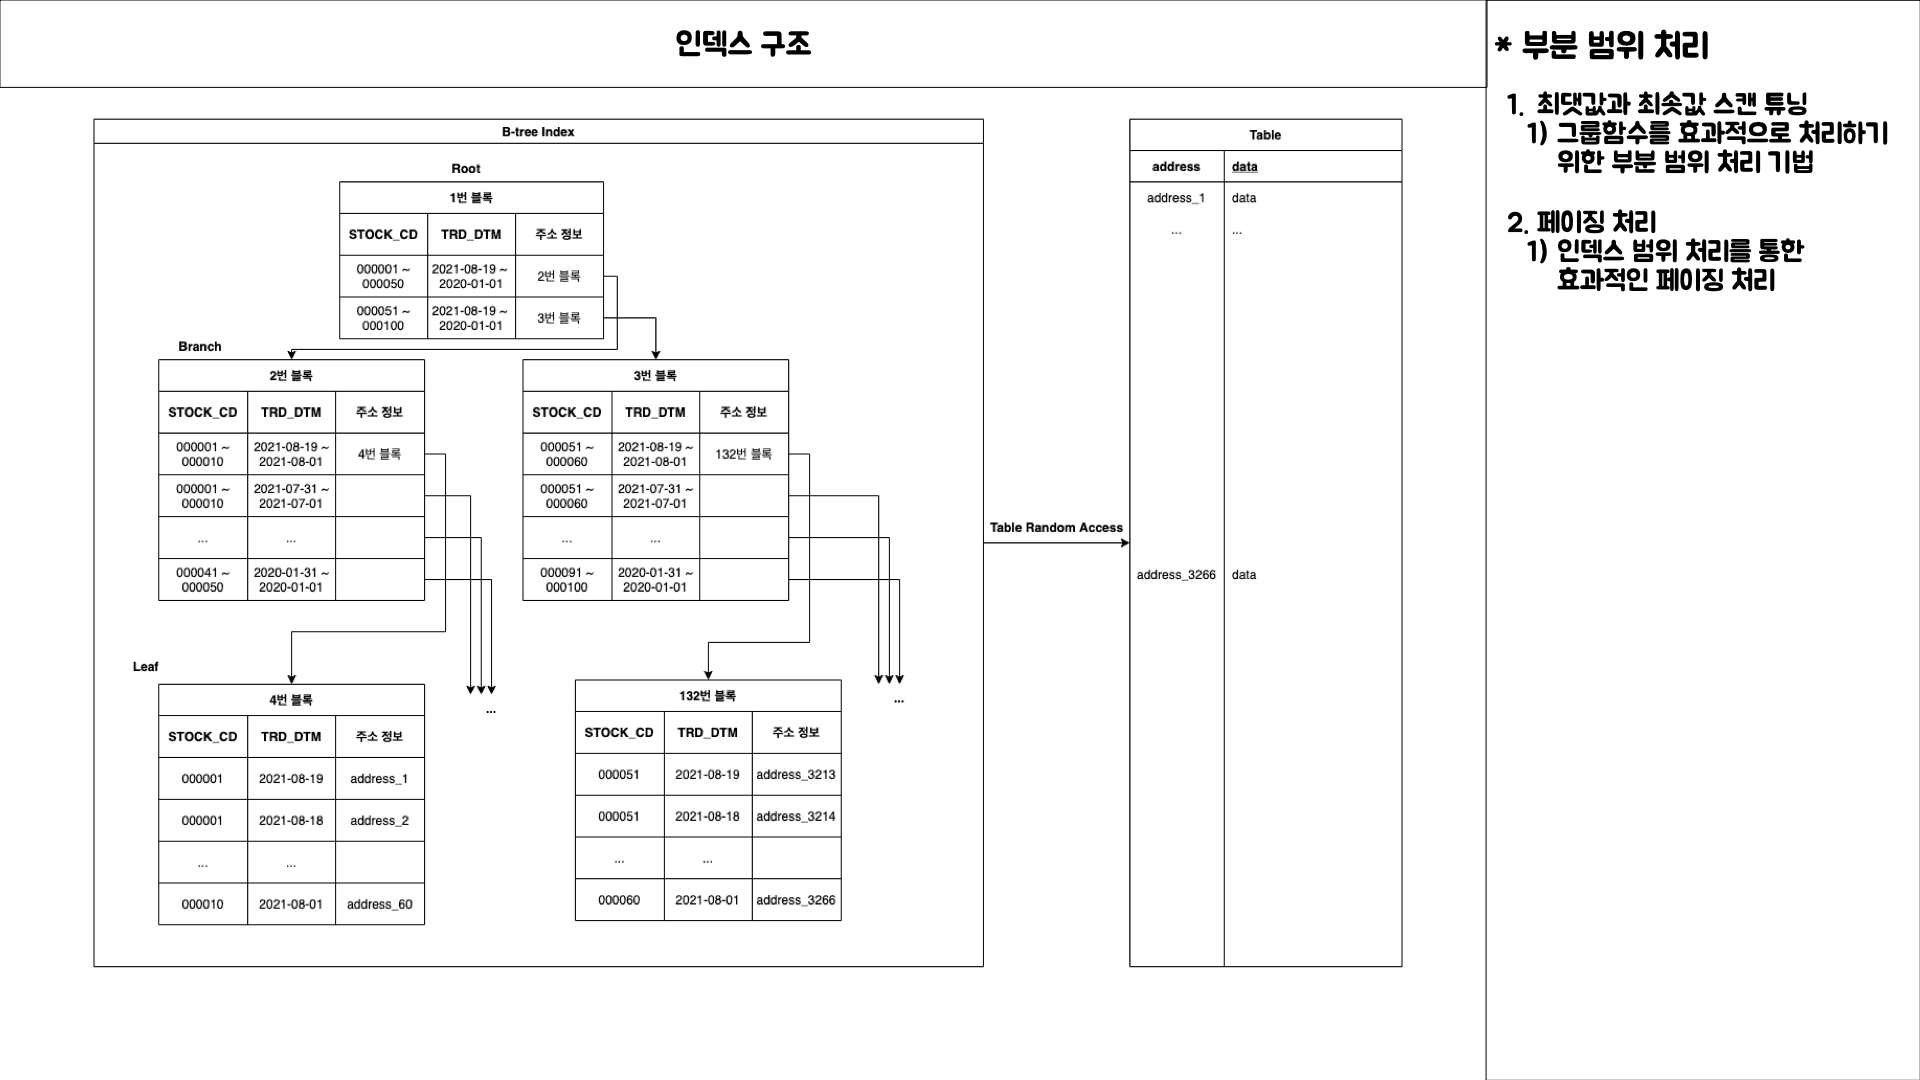
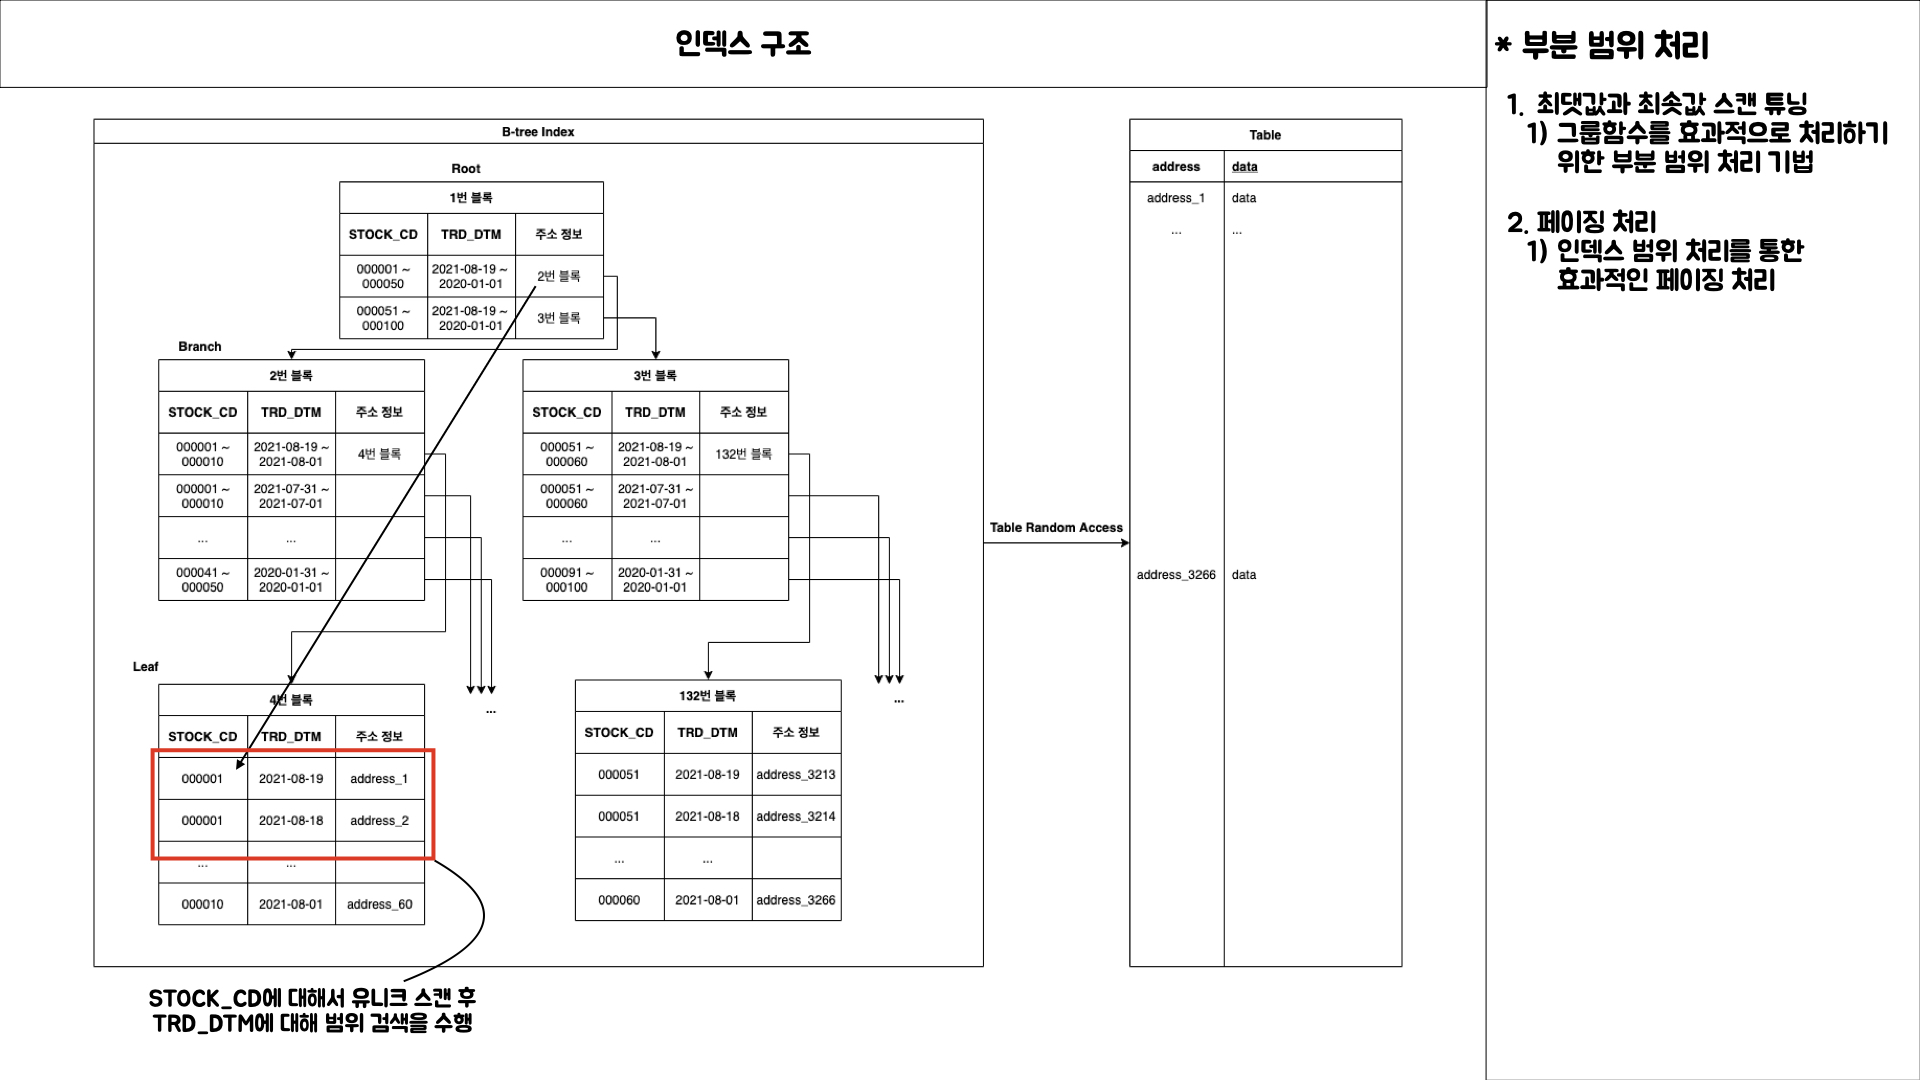
feat: 인덱스 스캔 추가 설명

Changed region(s): [[0.0625, 0.9167, 0.25, 0.9778], [0.0938, 0.6722, 0.2188, 0.7028], [0.0625, 0.7639, 0.0938, 0.7944]]

diff --git a/database/easy_db/contents/2021-08-21-db-partial.md b/database/easy_db/contents/2021-08-21-db-partial.md
@@ -123,6 +123,13 @@ WHERE ROWNUM <= 3;
 
 ![인덱스 생성과 튜닝 후 쿼리](../../images/oracle/partial_range_process/partial_range_process.009.jpeg)
 
+
+![인덱스를 통한 부분 범위 처리](../../images/oracle/partial_range_process/partial_range_process.012.jpeg)
+
+- **"인덱스를 통한 효율적인 부분 범위 처리가 가능하다"** 라는 말의 뜻?
+	- B-tree 인덱스의 구조를 보면 인덱스의 첫 번째 컬럼인 **STOCK_CD 컬럼**을 우선으로 인덱스 유니크 스캔
+	- 그리고 인덱스의 두 번째 컬럼인 **TRD_DTM 컬럼**에 대해서 범위 검색으로 필요한 부분만 검색 후 테이블 랜덤 액세스로 데이터를 가져온다.
+
 > **페이징 처리 튜닝 후 실행 계획**
 
 ![튜닝 후 쿼리 실행 계획](../../images/oracle/partial_range_process/partial_range_process.010.jpeg)
